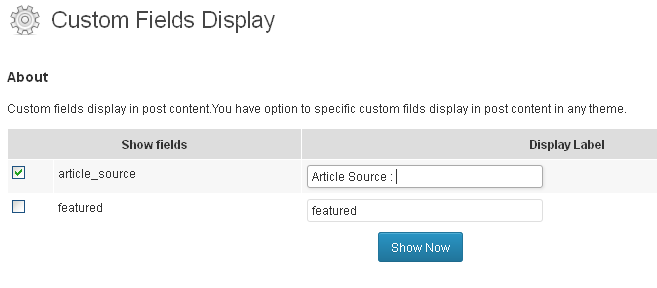
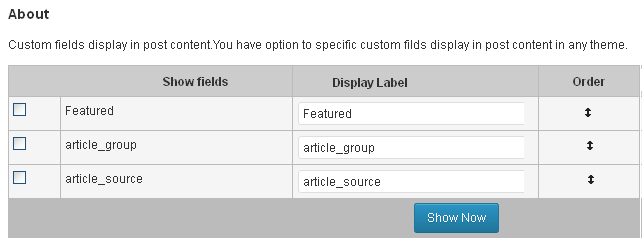
Add custom field display order setting option.
git-svn-id: https://plugins.svn.wordpress.org/custom-fields-display/trunk@826667 b8457f37-d9ea-0310-8a92-e5e31aec5664

diff --git a/stylesheet.css b/stylesheet.css
@@ -14,6 +14,7 @@
 
 .middle_table1
 {
+background:#bbb;
 
 }
 .middle_table1 .td
@@ -26,7 +27,7 @@
 .dataTableHeadingRow 
 { 
  height:30px;
- background-color:#dddddd;
+ background-color:#cccccc;
 }
 
 .dataTableRow1 
@@ -39,3 +40,29 @@
  height:20px;
  background-color: #ffffff; 
 }
+#field_order_box tr.field_content
+{
+ background:#f5f5f5;
+}
+#field_order_box tr.field_content-highlight
+{
+height:40px;
+background:#FFFCBF;
+}
+#field_order_box tr.field_content:hover
+{
+ cursor: move;
+ background:#dfdfdf;
+}
+.ui-icon {
+ display: block;
+ float:right;
+ text-indent: -99999px;
+ overflow: hidden;
+ background-repeat: no-repeat;
+ width: 16px;
+ height: 16px;
+ background-position: 16px 16px;
+ background-image: url(img/icons.png)
+}
+.ui-icon-arrowthick-2-n-s { background-position: -128px -48px; }

diff --git a/custom-fields-display.php b/custom-fields-display.php
@@ -3,7 +3,7 @@
 Plugin Name: Custom fields display
 Plugin URI: http://wordpress.org/extend/plugins/custom-fields-display/
 Description: Custom fields display in post content.You have option to specific custom filds display in post content in any theme.
-Version: 1.0
+Version: 1.1
 Author: Shambhu Prasad Patnaik
 Author URI:http://aynsoft.com/
 */
@@ -42,17 +42,18 @@ natcasesort($keys);
  if($action=='Show Now')
  {
   $default_option =array();
+  if(isset($_POST['check_box']))
+  {
+   $field_check = stripslashes_deep($_POST['check_box']);
+   foreach($field_check as $key =>$value)
+   $select_field[] = $value;
+  }
   foreach($keys as $key)
   {
    $field_id = stripslashes_deep($key);
-   $field_check = stripslashes_deep($_POST['check_'.$field_id]);
    $field_label = stripslashes_deep($_POST['field_'.$field_id]);
-   if($field_check=='on')
-   {
-    $select_field[] = $field_id;
-   }
    if($field_label=='')
-    $field_label = stripslashes_deep($field['label']);
+   $field_label = stripslashes_deep($field['label']);
 
    $default_option[$field_id] =$field_label; 
   }
@@ -82,40 +83,72 @@ natcasesort($keys);
 ?>
  <h3 class="title">About</h3>
  <p>Custom fields display in post content.You have option to specific custom filds display in post content in any theme.</p>
-
+<SCRIPT LANGUAGE="JavaScript">
+<!--
+jQuery(document).ready(function(){
+  "use strict";
+jQuery( "#field_order_box" ).sortable({placeholder: "field_content-highlight"});
+ 
+});
+//-->
+</SCRIPT>
 <?php
-echo'<table border="0" width="98%" cellspacing="1" cellpadding="4" class="middle_table1"> <form method="post" action="'.$action_url.'"  onsubmit="return ValidateForm(this)">        
+ wp_enqueue_script("jquery-ui-sortable");
+echo'<div><form method="post" action="'.$action_url.'"  onsubmit="return ValidateForm(this)"><table border="0" width="98%" cellspacing="1" cellpadding="4"   class="middle_table1">       
+       <tbody id="field_order_box" >
       <tr class="dataTableHeadingRow">
        <th colspan="2">Show fields</th>
        <th>Display Label</th>
+       <th>Order</th>
       </tr>';
- $i =1;
+ 
+ $i =0;
+ $data1 =array();
+ $total_record =count($keys);
+ foreach($default_select as  $key =>$value)
+ {
+  if(in_array($value,$keys))
+  $data1[]=array('key_name'=>$value,'volume'=>$key); 
+ }
  foreach($keys as $key)
  {
   $field_id          = $key;
-  $field_label       = $key;
-  if(isset($default_option[$key]))
-  $field_value       = $default_option[$key];
+  if(!in_array($field_id,$default_select))
+  {
+   $data1[]=array('key_name'=>$field_id,'volume'=>$total_record); 
+  }  
+ }
+ foreach ($data1 as $key => $row) {
+   $volume[$key]  = $row['volume'];
+   $name[$key] = $row['key_name'];
+ }
+ if($data1)
+ array_multisort($volume, SORT_ASC, $name, SORT_ASC, $data1);
+ foreach($data1 as $key =>$value)
+ {
+  $field_id          = $value['key_name'];
+  $field_label       = $field_id;
+  if(isset($default_option[$field_id]))
+  $field_value       = $default_option[$field_id];
   else 
-  $field_value       = $key;
+  $field_value       = $field_id;
   if(in_array($field_id,$default_select))
-  $fild_checkbox = custom_fields_display_checkbox_field('check_'.$field_id,'on', true,'', ' id="check_'.$field_id.'" '); 
+  $fild_checkbox = custom_fields_display_checkbox_field('check_box[]',$field_id, true,'', ' id="check_'.$field_id.'" '); 
   else
-  $fild_checkbox = custom_fields_display_checkbox_field('check_'.$field_id,'on', false,'', ' id="check_'.$field_id.'" '); 
+  $fild_checkbox = custom_fields_display_checkbox_field('check_box[]',$field_id, false,'', ' id="check_'.$field_id.'" '); 
 
-  echo '<tr class="dataTableRow'.(($i%2==1)?'1':'2').'" >
+  echo '<tr id="'.$field_id.'" class="field_content" >
        <td valign="top" >'.$fild_checkbox.'</td>
        <td valign="top" width="30%"><nobr><label for="check_'.$field_id.'" >'.$field_label.'</label></nobr></td>
        <td valign="top"><input type="text"  name ="field_'.$field_id.'" value="'.esc_attr($field_value).'" size="40"></td>
+	   <td><span class="ui-icon ui-icon-arrowthick-2-n-s"></span></td>
     </tr>';
-
-  $i++;
 
  }
  echo' <tr>
         <td colspan="5"  align="center"><input type="submit" name="update" value="Show Now" class="button button-primary button-large"></td>
-       </tr></form>
-	 </table>';
+       </tr></tbody>
+	 </table></form></div>';
  echo'</div></div>';
 
 }
@@ -196,5 +229,4 @@ function custom_fields_display_content_filter( $content )
  return $add_content.$content;
 }
 endif;
-
 ?>
